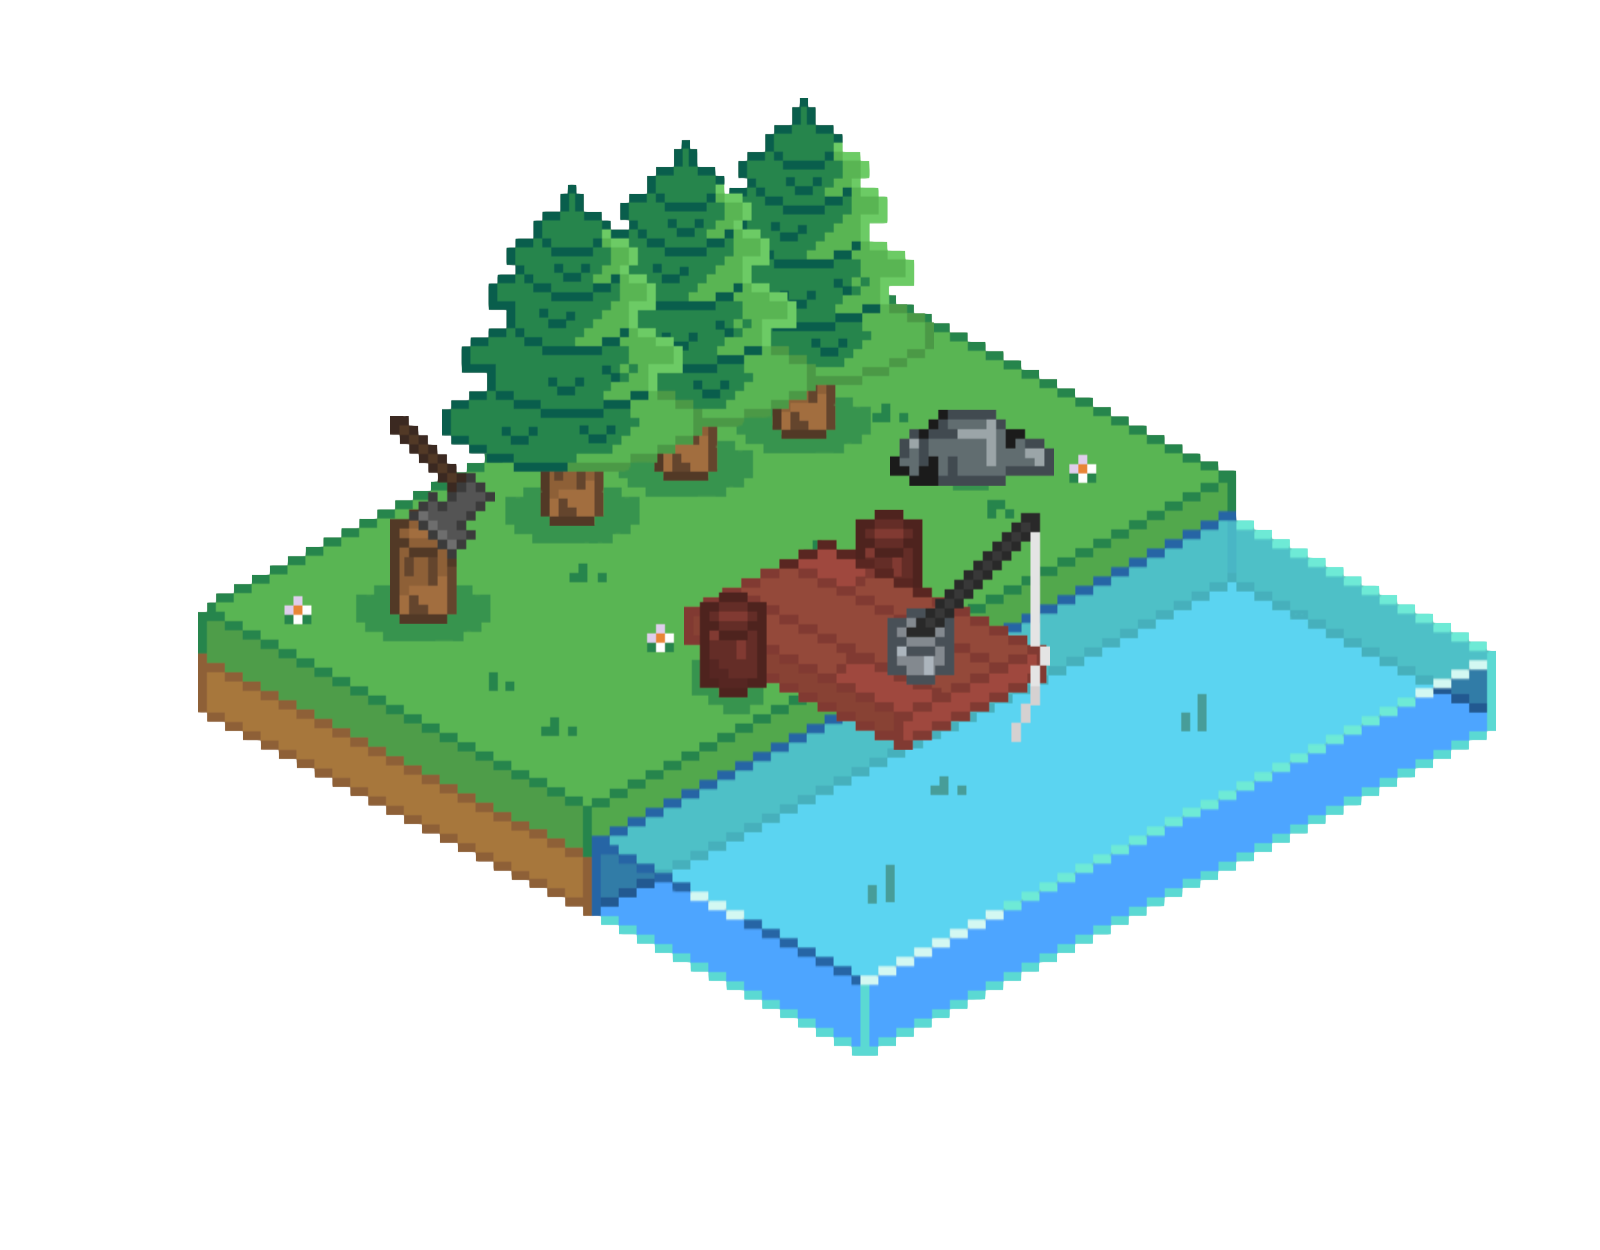
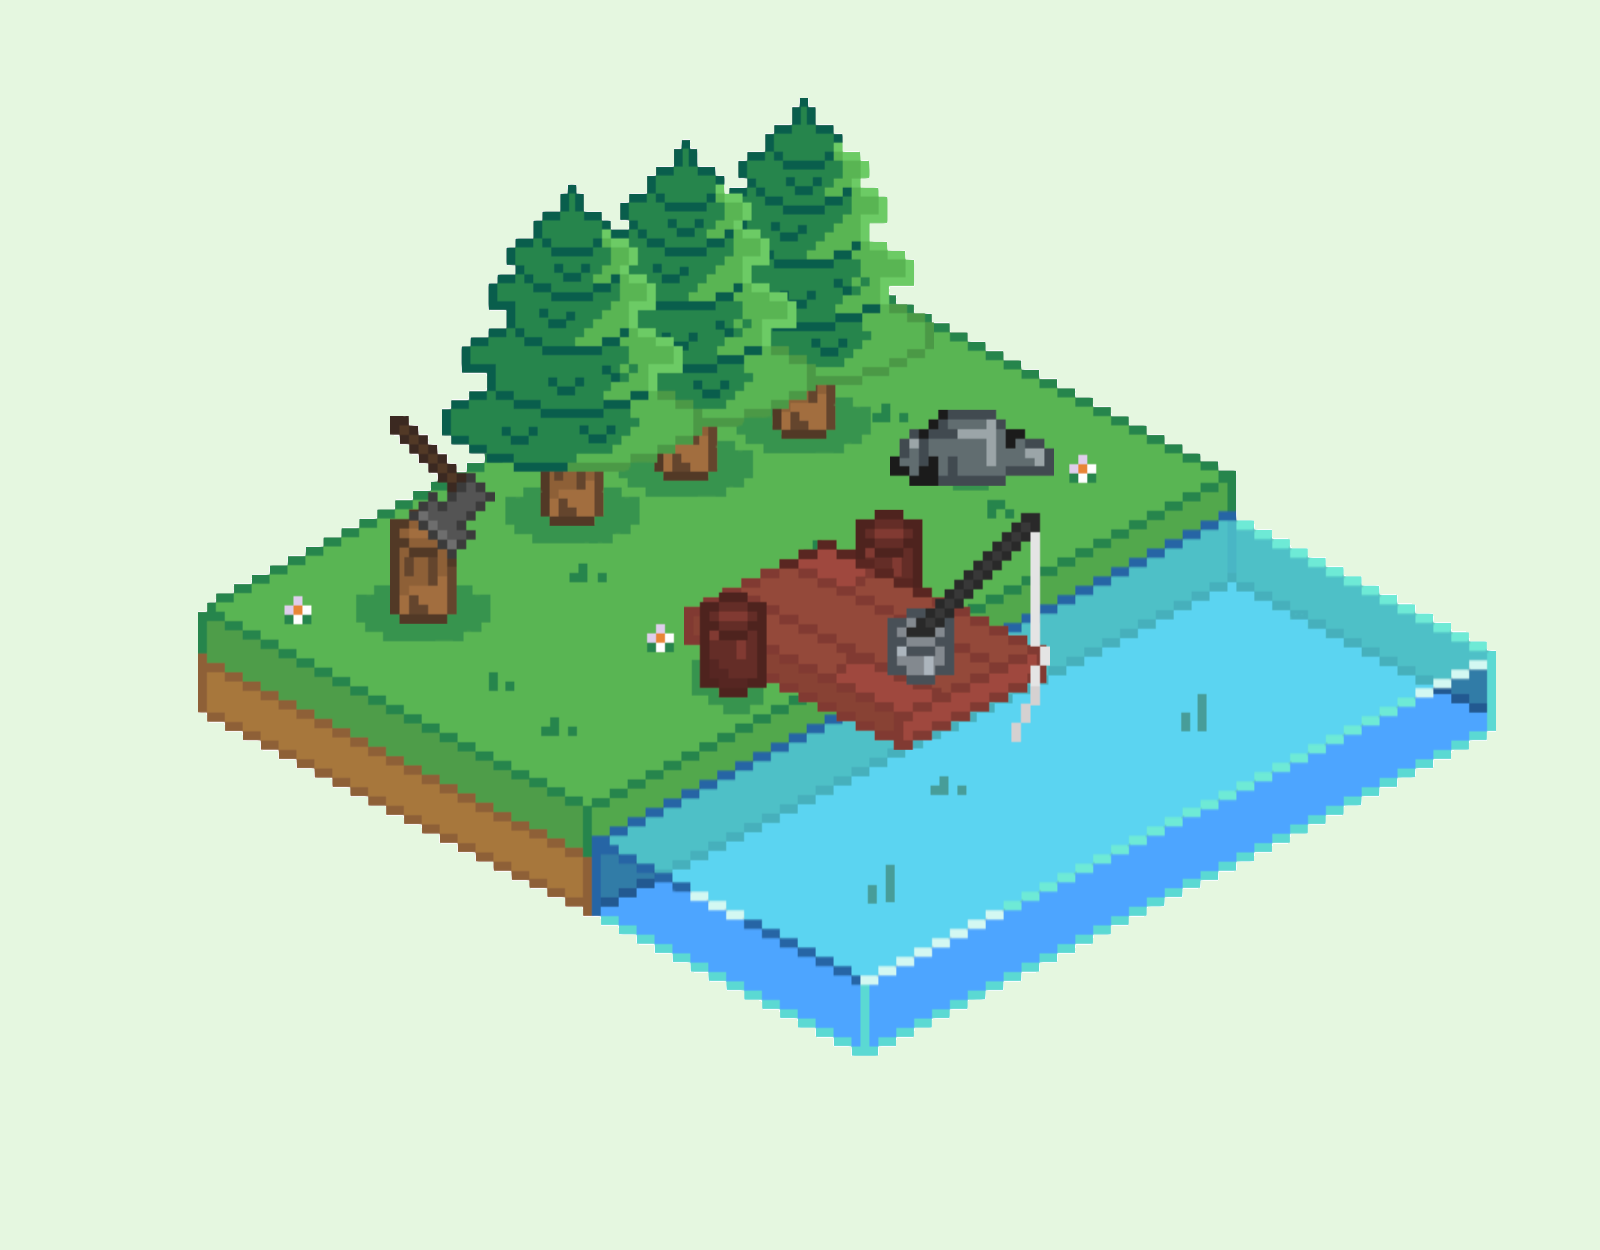
Cosmetic: Added more backgrounds to accomodate rug and cabinet alterations

diff --git a/src/main/java/nz/ac/auckland/se206/controllers/RoomController.java b/src/main/java/nz/ac/auckland/se206/controllers/RoomController.java
@@ -5,6 +5,7 @@ import javafx.scene.control.Label;
 import javafx.scene.image.ImageView;
 import javafx.scene.input.MouseEvent;
 import javafx.scene.shape.Polygon;
+import javafx.scene.shape.Rectangle;
 import nz.ac.auckland.se206.App;
 import nz.ac.auckland.se206.GameState;
 import nz.ac.auckland.se206.NotificationBuilder;
@@ -63,6 +64,7 @@ public class RoomController extends ControllerMethods {
   @FXML private Polygon cabinet;
   @FXML private Polygon carpet;
   @FXML private Polygon cabinetOrb;
+  @FXML private Rectangle orbRectangleRug;
 
   // Game Master
   @FXML private ImageView gameMasterDefault;
@@ -87,6 +89,7 @@ public class RoomController extends ControllerMethods {
 
   private int spamCount = 0;
   private boolean isDrawerOpen = false;
+  private boolean isRugPresent = true;
 
   /** Initializes the room view, it is called when the room loads. */
   public void initialize() {
@@ -379,12 +382,14 @@ public class RoomController extends ControllerMethods {
     // if rug riddle is selected and solved
     if (GameState.isRug && GameState.isRiddleResolved) {
       // Remove the rug
+      isRugPresent = false;
       floorRug.setOpacity(0);
       rugOutline.setOpacity(0);
       carpet.setDisable(true);
 
       // Reveal the blue orb
       floorBlueOrbOutline.setDisable(false);
+      orbRectangleRug.setDisable(false);
       floorBlueOrb.setOpacity(1);
     }
   }
@@ -410,6 +415,7 @@ public class RoomController extends ControllerMethods {
 
       // Hide the orb once retrieved
       floorBlueOrbOutline.setDisable(true);
+      orbRectangleRug.setDisable(true);
       floorBlueOrb.setOpacity(0);
       floorBlueOrbOutline.setOpacity(0);
 
@@ -648,17 +654,7 @@ public class RoomController extends ControllerMethods {
 
   @FXML
   private void gameMasterOnClick(MouseEvent event) {
-    // Logic for which background GPT should have
-    if (GameState.isMapOnWall) {
-      setMainMapOpacity();
-    } else if (!GameState.isMapOnWall) {
-      setMainMapRemovedOpacity();
-    }
-
-    if (!GameState.isLightOn) {
-      setMainDarkOpacity();
-    }
-
+    backrgoundHelper();
     // Store current scene in scene stack
     SceneManager.sceneStack.push(AppScene.ROOM);
     App.setScene(AppScene.CHAT);
@@ -703,15 +699,7 @@ public class RoomController extends ControllerMethods {
     chatController.setRiddleBookOpacity();
 
     // Logic for which background GPT should have
-    if (GameState.isMapOnWall) {
-      setMainMapOpacity();
-    } else if (!GameState.isMapOnWall) {
-      setMainMapRemovedOpacity();
-    }
-
-    if (!GameState.isLightOn) {
-      setMainDarkOpacity();
-    }
+    backrgoundHelper();
 
     // Store current scene in scene stack
     SceneManager.sceneStack.push(AppScene.ROOM);
@@ -744,5 +732,40 @@ public class RoomController extends ControllerMethods {
         NotificationBuilder.createNotification(
             "Game Master:", "Congratulation! You've found an orb!", 6);
     orbMessage.show();
+  }
+
+  private void backrgoundHelper() {
+    // Logic for which background GPT should have
+    if (GameState.isMapOnWall && GameState.isLightOn) {
+      setMainMapOpacity();
+    } else if (GameState.isMapOnWall && !GameState.isLightOn) {
+      setMainDarkOpacity();
+    } else if (!GameState.isMapOnWall && GameState.isLightOn) {
+      setMainMapRemovedOpacity();
+    } else if (!GameState.isMapOnWall && !GameState.isLightOn) {
+      setMainDarkMapRemovedOpacity();
+    }
+
+    // Handles if the cabinet should be open or not
+    if (GameState.isMapOnWall && GameState.isLightOn && isDrawerOpen) {
+      setMainCabinetMapOpacity();
+    } else if (GameState.isMapOnWall && !GameState.isLightOn && isDrawerOpen) {
+      setMainDarkCabinetMapOpacity();
+    } else if (!GameState.isMapOnWall && GameState.isLightOn && isDrawerOpen) {
+      setMainCabinetMapRemovedOpacity();
+    } else if (!GameState.isMapOnWall && !GameState.isLightOn && isDrawerOpen) {
+      setMainDarkCabinetMapRemovedOpacity();
+    }
+
+    // Handles if the rug should be visible or not
+    if (GameState.isMapOnWall && GameState.isLightOn && !isRugPresent) {
+      setMainRugMapOpacity();
+    } else if (GameState.isMapOnWall && !GameState.isLightOn && !isRugPresent) {
+      setMainDarkRugMapOpacity();
+    } else if (!GameState.isMapOnWall && GameState.isLightOn && !isRugPresent) {
+      setMainRugMapRemovedOpacity();
+    } else if (!GameState.isMapOnWall && !GameState.isLightOn && !isRugPresent) {
+      setMainDarkRugMapRemovedOpacity();
+    }
   }
 }

diff --git a/src/main/java/nz/ac/auckland/se206/controllers/ControllerMethods.java b/src/main/java/nz/ac/auckland/se206/controllers/ControllerMethods.java
@@ -407,7 +407,53 @@ public class ControllerMethods {
   }
 
   protected void setMainDarkOpacity() {
-    backgroundImageProperty.set(new Image(getClass().getResourceAsStream("/images/mainDark.png")));
+    backgroundImageProperty.set(
+        new Image(getClass().getResourceAsStream("/images/mainDarkMap.png")));
+  }
+
+  protected void setMainDarkMapRemovedOpacity() {
+    backgroundImageProperty.set(
+        new Image(getClass().getResourceAsStream("/images/mainDarkMapRemoved.png")));
+  }
+
+  protected void setMainCabinetMapOpacity() {
+    backgroundImageProperty.set(
+        new Image(getClass().getResourceAsStream("/images/mainCabinetOpenMap.png")));
+  }
+
+  protected void setMainCabinetMapRemovedOpacity() {
+    backgroundImageProperty.set(
+        new Image(getClass().getResourceAsStream("/images/mainCabinetOpenMapRemoved.png")));
+  }
+
+  protected void setMainDarkCabinetMapOpacity() {
+    backgroundImageProperty.set(
+        new Image(getClass().getResourceAsStream("/images/mainCabinetOpenDarkMap.png")));
+  }
+
+  protected void setMainDarkCabinetMapRemovedOpacity() {
+    backgroundImageProperty.set(
+        new Image(getClass().getResourceAsStream("/images/mainCabinetDarkMapRemoved.png")));
+  }
+
+  protected void setMainRugMapOpacity() {
+    backgroundImageProperty.set(
+        new Image(getClass().getResourceAsStream("/images/mainRugMap.png")));
+  }
+
+  protected void setMainRugMapRemovedOpacity() {
+    backgroundImageProperty.set(
+        new Image(getClass().getResourceAsStream("/images/mainRugMapRemoved.png")));
+  }
+
+  protected void setMainDarkRugMapOpacity() {
+    backgroundImageProperty.set(
+        new Image(getClass().getResourceAsStream("/images/mainDarkRugMap.png")));
+  }
+
+  protected void setMainDarkRugMapRemovedOpacity() {
+    backgroundImageProperty.set(
+        new Image(getClass().getResourceAsStream("/images/mainDarkRugMapRemoved.png")));
   }
 
   protected void setLavaDragonOpacity() {
